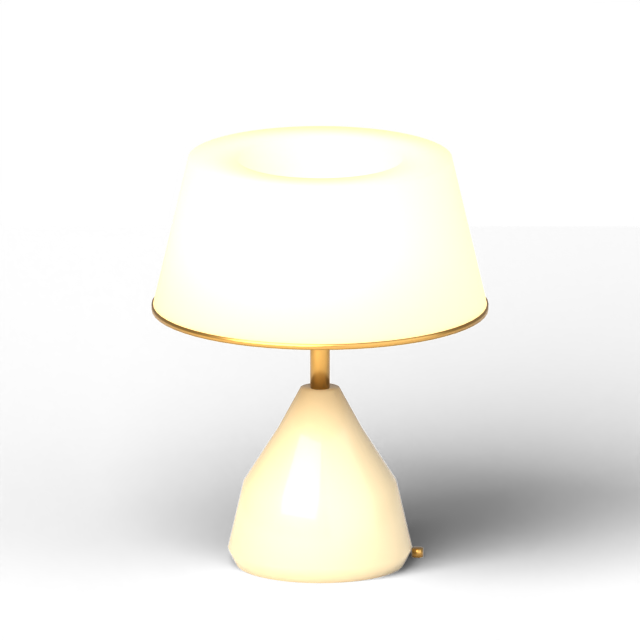
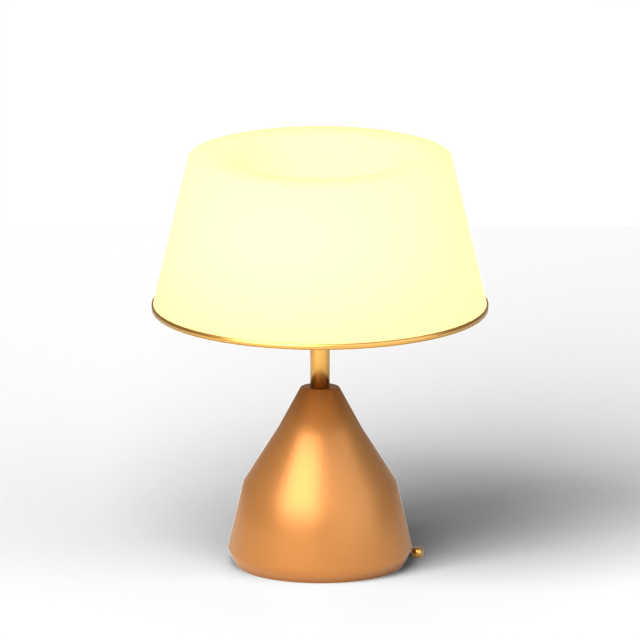
Settings objects: warmer brass-and-amber lamp, lamp hotspot clear of the air fryer and scales labels

Changed region(s): [[0.2188, 0.1875, 0.75, 0.5625], [0.3438, 0.5938, 0.6562, 0.9375]]

diff --git a/blender/explore/settings-objects.js b/blender/explore/settings-objects.js
@@ -11,7 +11,7 @@ import { visit } from './visit-state.js';
 // What each object is: its hotspot (where its body sits), the sprite's size in metres (the build script's SPAN) and where the
 // sprite's centre lies from the body in metres (right, up), `big` (a little larger than life so it reads at phone size), the row it opens
 const KINDS = {
-  lamp:       { id: 'fl-lamp',         key: 'energy', row: 'energy', span: 0.46, off: [0, 0.03], big: 1.15 },
+  lamp:       { id: 'fl-lamp',         key: 'energy', row: 'energy', span: 0.46, off: [0, 0.128], big: 1.15 },
   suncatcher: { id: 'chia-suncatcher', key: 'energy', row: 'energy', span: 0.44, off: [0, 0], big: 1.5 },
   yarn:       { id: 'cc-yarn',         key: 'time',   row: 'time',   span: 0.42, off: [0.12, -0.01], big: 1.5 },
   twine:      { id: 'fl-twine',        key: 'time',   row: 'time',   span: 0.42, off: [0.06, -0.01], big: 1.5 },
@@ -85,8 +85,8 @@ export function install(inn) {
       place(P.body, kind, s); place(P.lit, kind, s);
       P.body.material.color.copy(rgb); P.lit.material.color.copy(rgb);
       P.lit.material.opacity = level;                                   // the shade warms as the candle burns up
-      place(P.glow, kind, s, 1.9);
-      P.glow.material.opacity = level * (T.night ? 1 : 0.55);            // by day a lamp is a gentle glow, at night it lights the shelf
+      place(P.glow, kind, s, 2.4);
+      P.glow.material.opacity = Math.min(1, level * (T.night ? 1.2 : 0.8));            // by day a lamp is a gentle glow, at night it lights the shelf
       P.glow.position.y += 0.02;
     } else if (kind === 'suncatcher') {
       P.body.material.map = tex('suncatcher'); place(P.body, kind, s);

diff --git a/blender/settings_sprites_build.py b/blender/settings_sprites_build.py
@@ -173,9 +173,9 @@ def wound(m, scale=60.0, rough=0.85):
 # ---------------------------------------------------------------- the objects
 def lamp(lit):
     """A little enamel table lamp with a pleated cream shade (0.3 m): the Flourish lamp."""
-    enamel = mat("enamel", srgb("#cdbf9f"), rough=0.35, coat=0.4)
+    enamel = mat("enamel", srgb("#9c6b3a"), rough=0.4, metal=0.6)
     brass = mat("brass", srgb("#bd9655"), rough=0.3, metal=1.0)
-    shade_c = srgb("#e3c98f")
+    shade_c = srgb("#dba85a")
     shade = mat("shade", shade_c, rough=0.9, emission=(1.0, 0.72, 0.36, 1) if lit else None, strength=1.1 if lit else 0.0)
     lathe("base", [(0, 0), (0.06, 0.0), (0.066, 0.012), (0.055, 0.06), (0.03, 0.1), (0.014, 0.13), (0.0, 0.13)], enamel)
     cyl("stem", (0, 0, 0.16), 0.007, 0.07, brass, bevel=0.0)
